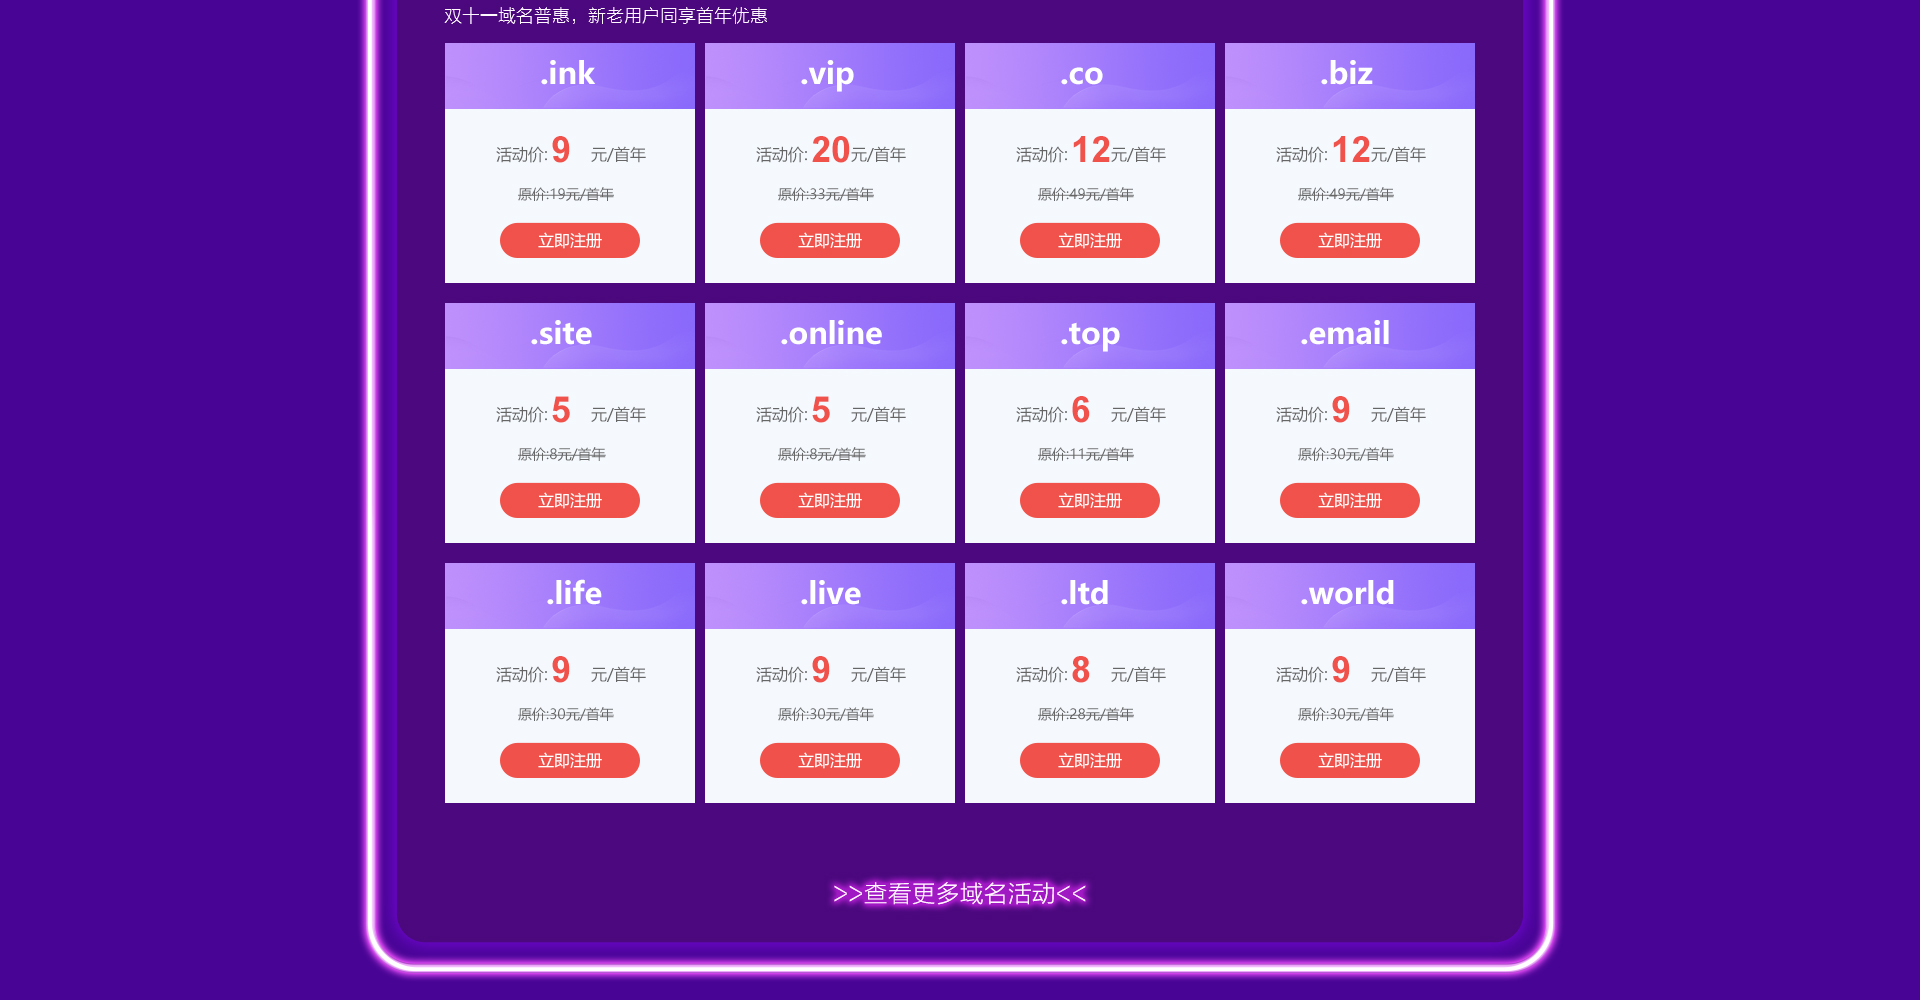
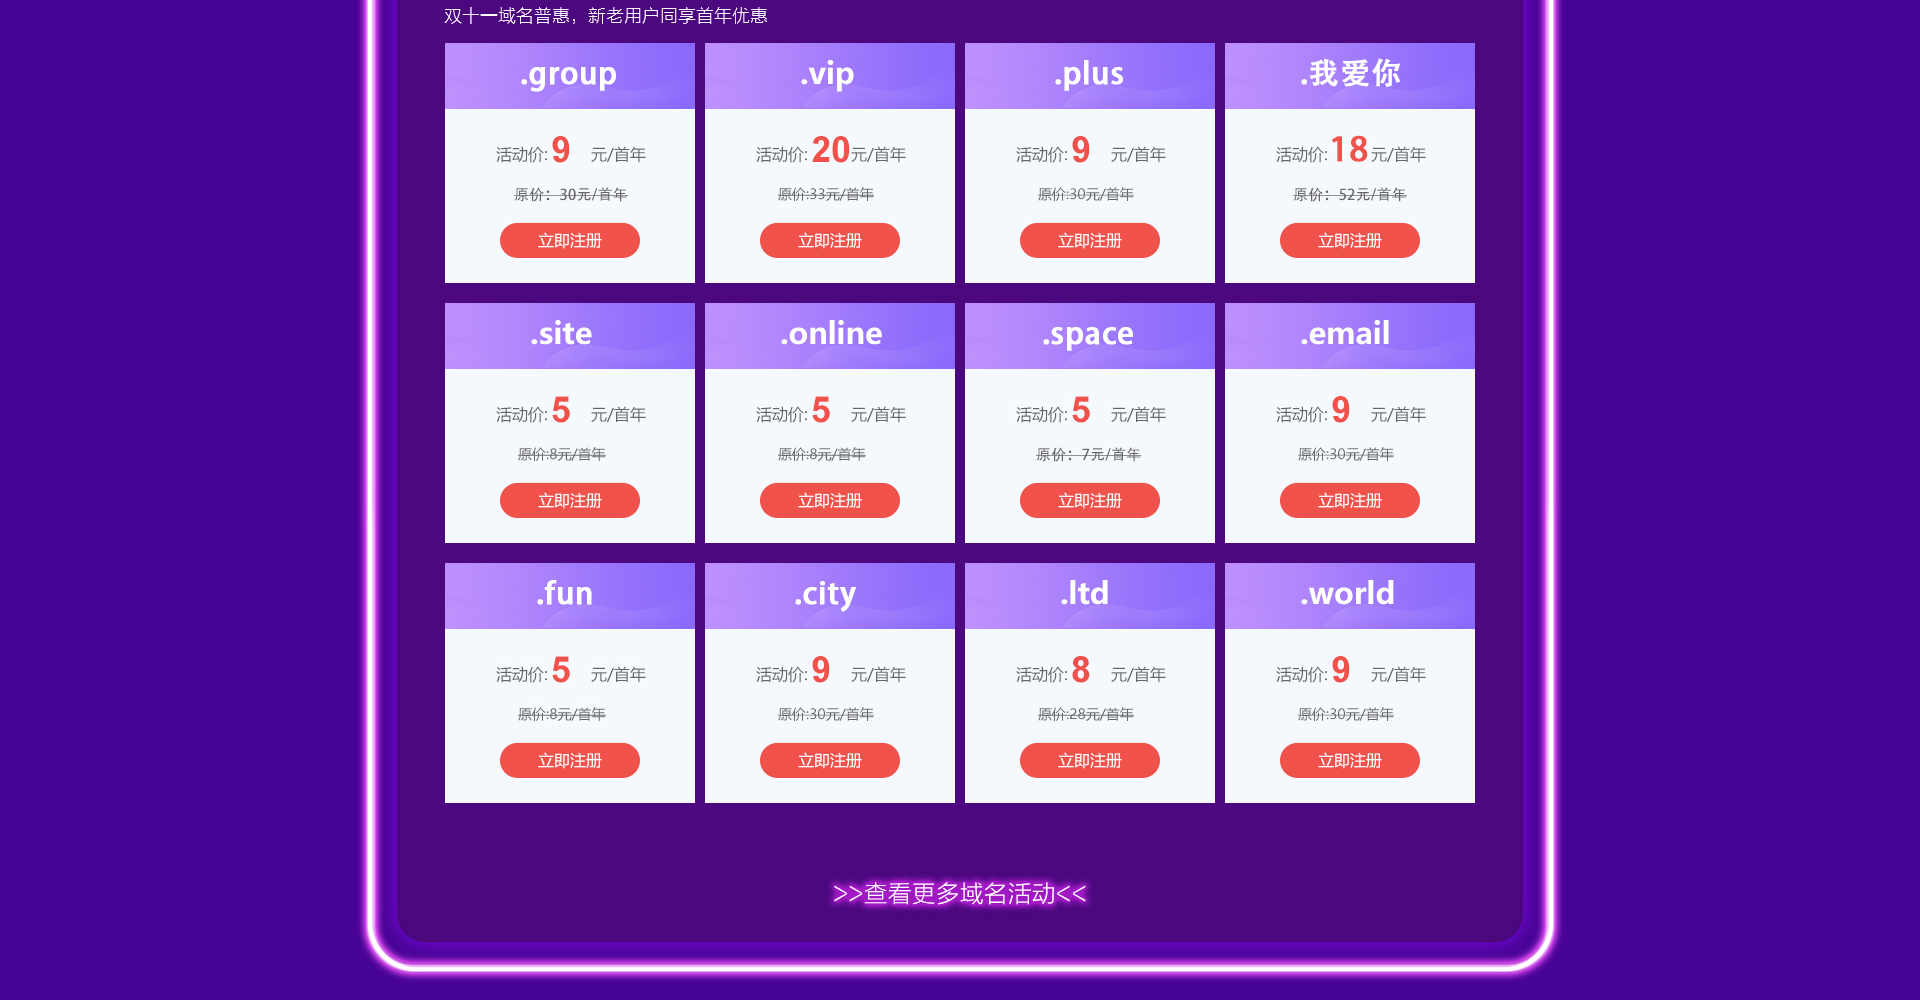
20191112

diff --git a/domain.html b/domain.html
@@ -774,16 +774,16 @@
     </div>
     <div class="section section_07">
       <div class="cont">
-        <a class="link1" href="http://www.xinnet.com/domain/ink.html" target="_blank" alt=".ink立即注册"></a>
+        <a class="link1" href="http://www.xinnet.com/domain/domain.html" target="_blank" alt=".group立即注册"></a>
         <a class="link2" href="http://www.xinnet.com/domain/vip.html" target="_blank" alt=".vip立即注册"></a>
-        <a class="link3" href="http://www.xinnet.com/domain/tld-co.html" target="_blank" alt=".co立即注册"></a>
-        <a class="link4" href="http://www.xinnet.com/domain/biz.html" target="_blank" alt=".biz立即注册"></a>
+        <a class="link3" href="http://www.xinnet.com/domain/domain.html" target="_blank" alt=".plus立即注册"></a>
+        <a class="link4" href="http://www.xinnet.com/domain/love.html" target="_blank" alt=".我爱你立即注册"></a>
         <a class="link5" href="http://www.xinnet.com/domain/site.html" target="_blank" alt=".site立即注册"></a>
         <a class="link6" href="http://www.xinnet.com/domain/tld-online.html" target="_blank" alt=".online立即注册"></a>
-        <a class="link7" href="http://www.xinnet.com/domain/top.html" target="_blank" alt=".top立即注册"></a>
+        <a class="link7" href="http://www.xinnet.com/domain/domain.html" target="_blank" alt=".space立即注册"></a>
         <a class="link8" href="http://www.xinnet.com/domain/domain.html" target="_blank" alt=".email立即注册"></a>
-        <a class="link9" href="http://www.xinnet.com/domain/domain.html" target="_blank" alt=".life立即注册"></a>
-        <a class="link10" href="http://www.xinnet.com/domain/domain.html" target="_blank" alt=".live立即注册"></a>
+        <a class="link9" href="http://www.xinnet.com/domain/domain.html" target="_blank" alt=".fun立即注册"></a>
+        <a class="link10" href="http://www.xinnet.com/domain/domain.html" target="_blank" alt=".city立即注册"></a>
         <a class="link11" href="http://www.xinnet.com/domain/ltd.html" target="_blank" alt=".ltd立即注册"></a>
         <a class="link12" href="http://www.xinnet.com/domain/domain.html" target="_blank" alt=".world立即注册"></a>
         <a class="link13" href="http://www.xinnet.com/composite/zt/2018Y1012domain.html" alt="查看更多域名活动"></a>

diff --git a/virtualhost.html b/virtualhost.html
@@ -1020,7 +1020,7 @@
             $(that).parents(".virMd2r_item").find(".eleDomain_wait1").css("display", "block").siblings().css("display", "none");
             // $(".eleDomain_wait"+dm).css("display", "block").siblings().css("display", "none");
             $.ajax({
-                url: "http://domaincheck.xinnet.com/domainCheck?searchRandom=4&prefix=" + prefix + "&suffix=.com",
+                url: "http://domaincheck.xinnet.com/domainCheck?searchRandom=4&prefix=" + prefix + "&suffix=" + suffix,
                 type: 'get',
                 async: true,
                 //contentType : "application/json; charset=utf-8",
